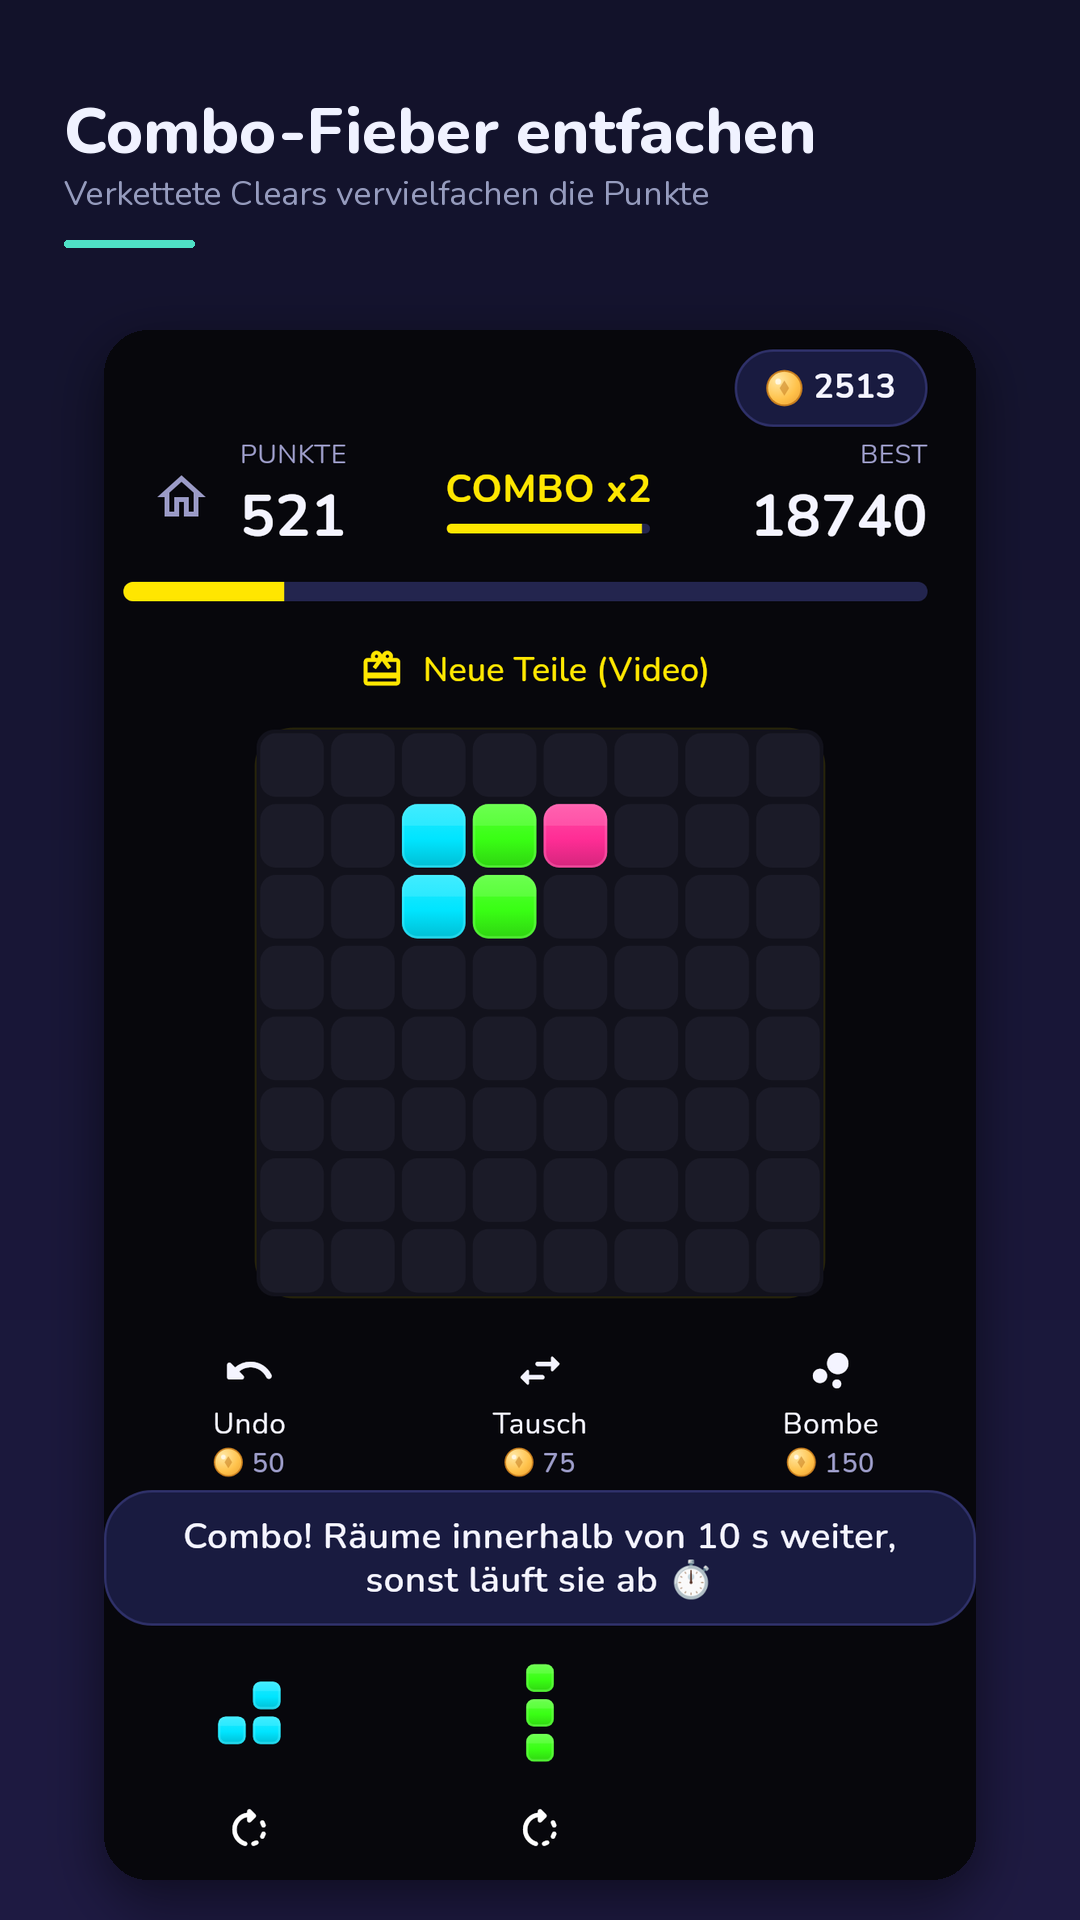
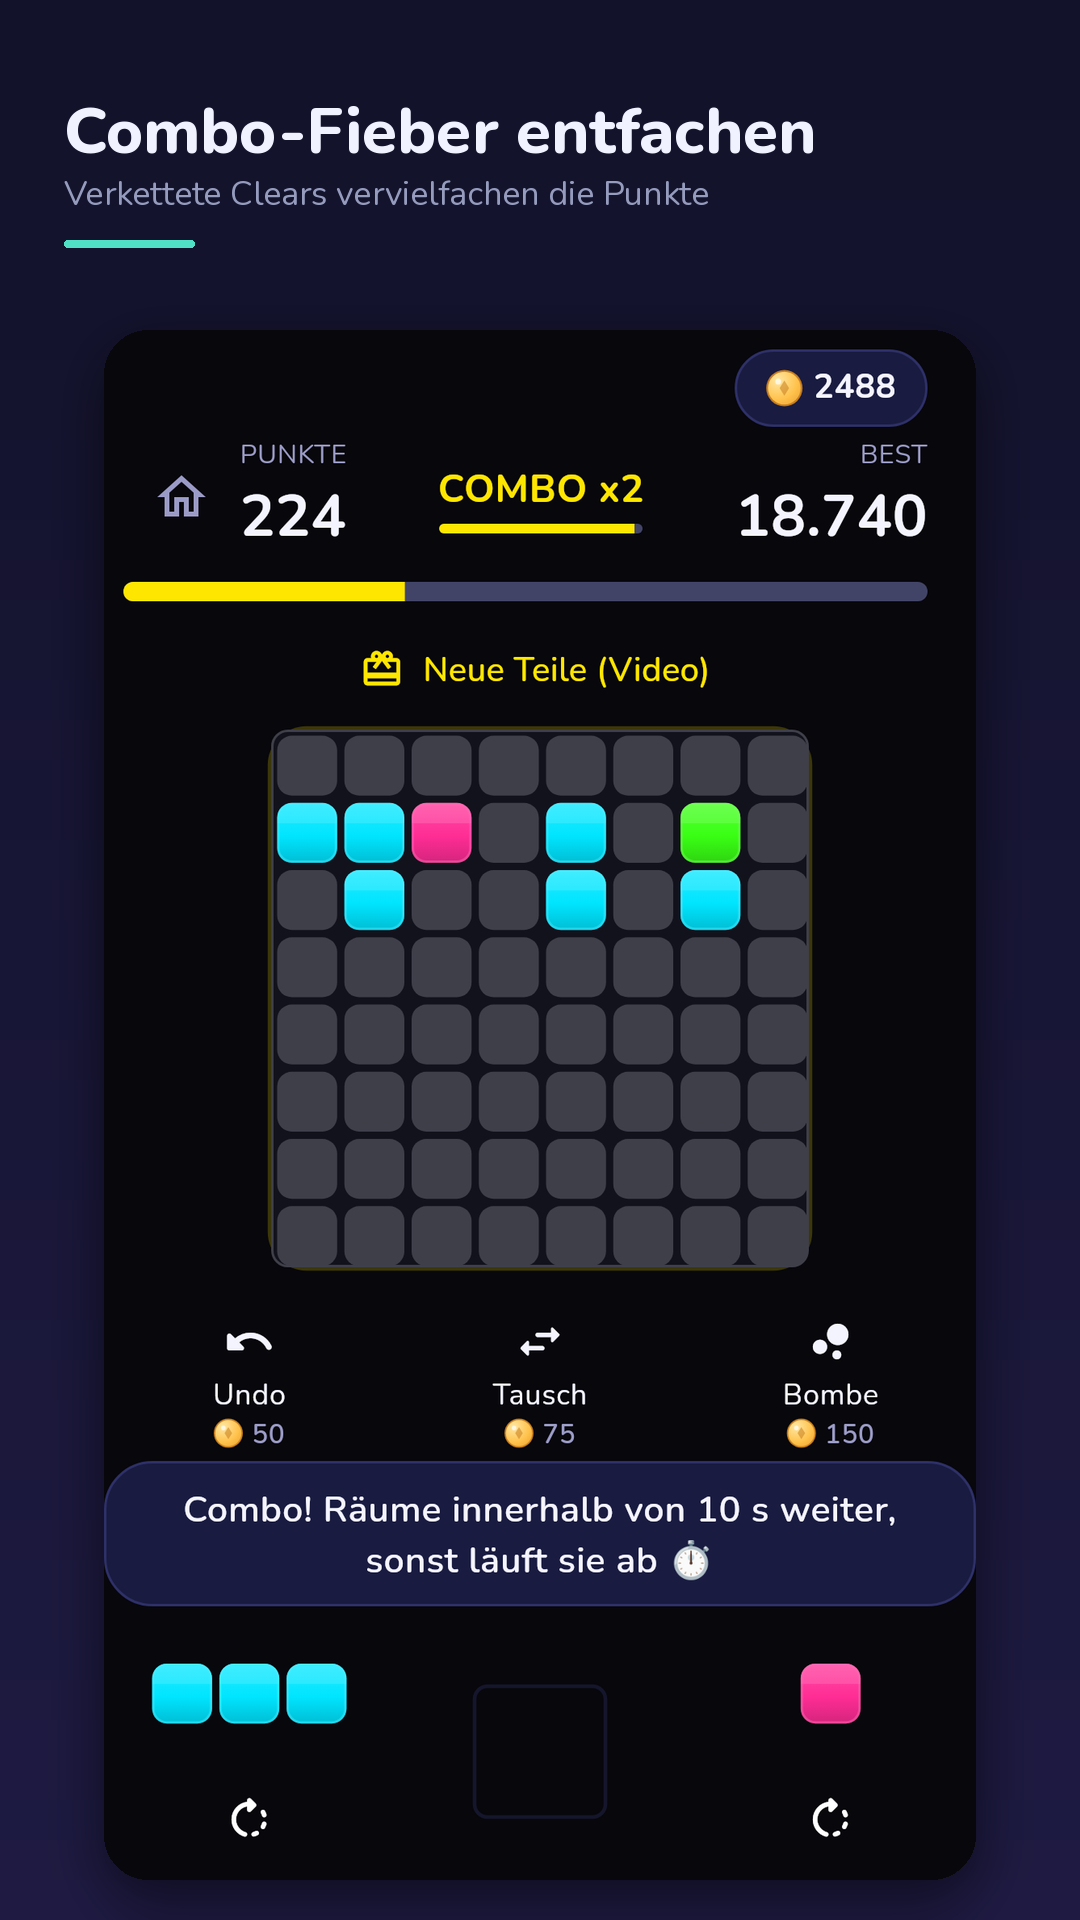
Format numbers by locale, and stop the screenshots at a live board
format.dart grouped thousands with a hardcoded '.', which was correct while
the app was German-only — its own doc comment said to swap it for
NumberFormat once the app was localized. It is now, so an English player was
reading "18.740" as a decimal. Grouping follows the rendered locale.

The screenshot generator filled the board by move count, which #43's balance
changes turned into a run that ended: the gameplay capture was a Game Over
overlay under a caption about clearing rows. It now fills to a share of the
board instead, and asserts the run is still live before capturing, so this
fails the generator rather than reaching the store.

diff --git a/test/ui/format_test.dart b/test/ui/format_test.dart
@@ -2,24 +2,43 @@ import 'package:flutter_test/flutter_test.dart';
 import 'package:gridpop/ui/format.dart';
 
 void main() {
-  test('groups thousands the German way', () {
-    expect(formatCount(0), '0');
-    expect(formatCount(7), '7');
-    expect(formatCount(999), '999');
-    expect(formatCount(1000), '1.000');
-    expect(formatCount(12840), '12.840');
-    expect(formatCount(100000), '100.000');
-    expect(formatCount(1234567), '1.234.567');
+  group('English (the source language, and the fallback)', () {
+    test('groups thousands with a comma', () {
+      expect(formatCount(0, locale: 'en'), '0');
+      expect(formatCount(7, locale: 'en'), '7');
+      expect(formatCount(999, locale: 'en'), '999');
+      expect(formatCount(1000, locale: 'en'), '1,000');
+      expect(formatCount(12840, locale: 'en'), '12,840');
+      expect(formatCount(100000, locale: 'en'), '100,000');
+      expect(formatCount(1234567, locale: 'en'), '1,234,567');
+    });
+
+    test('handles the boundaries a score can actually reach', () {
+      // Measured over 60,000 simulated runs: p95 ~9,600, max ~29,000.
+      expect(formatCount(9602, locale: 'en'), '9,602');
+      expect(formatCount(28894, locale: 'en'), '28,894');
+    });
+
+    test('a negative value keeps its sign', () {
+      // Not reachable from a score today, but the helper is general.
+      expect(formatCount(-4200, locale: 'en'), '-4,200');
+    });
   });
 
-  test('handles the boundaries a score can actually reach', () {
-    // Measured over 60.000 simulated runs: p95 ~9.600, max ~29.000.
-    expect(formatCount(9602), '9.602');
-    expect(formatCount(28894), '28.894');
-  });
+  group('German', () {
+    test('groups thousands with a period', () {
+      // The separator has to follow the language: a German player reading
+      // "18,740" would see a decimal, not a score.
+      expect(formatCount(1000, locale: 'de'), '1.000');
+      expect(formatCount(12840, locale: 'de'), '12.840');
+      expect(formatCount(1234567, locale: 'de'), '1.234.567');
+      expect(formatCount(-4200, locale: 'de'), '-4.200');
+    });
 
-  test('a negative value keeps its sign', () {
-    // Not reachable from a score today, but the helper is general.
-    expect(formatCount(-4200), '-4.200');
+    test('small numbers are identical in both languages', () {
+      for (final value in [0, 7, 42, 999]) {
+        expect(formatCount(value, locale: 'de'), formatCount(value, locale: 'en'));
+      }
+    });
   });
 }

diff --git a/tool/generate_screenshots.dart b/tool/generate_screenshots.dart
@@ -231,11 +231,25 @@ bool _playOneMove(GameController c, _Prefer prefer) {
 
 enum _Prefer { any, fill, clear }
 
-/// Builds up a busy-looking board: fill without clearing for a while, so the
-/// grid reads as "a real run in progress" instead of three lonely blocks.
-void _buildBusyBoard(GameController c, {int moves = 14}) {
-  for (var i = 0; i < moves; i++) {
+/// Builds up a busy-looking board: fill without clearing until roughly
+/// [targetFill] of the grid is occupied, so it reads as "a real run in
+/// progress" instead of three lonely blocks.
+///
+/// Driven by how full the board actually is rather than a move count. A fixed
+/// count is hostage to generator and balance tuning — it once produced a good
+/// board and later ran the run all the way to Game Over, which is not what the
+/// store should show.
+void _buildBusyBoard(GameController c, {double targetFill = 0.45}) {
+  const cells = Board.size * Board.size;
+  for (var i = 0; i < 200; i++) {
     if (c.state.gameOver) return;
+    var filled = 0;
+    for (var r = 0; r < Board.size; r++) {
+      for (var col = 0; col < Board.size; col++) {
+        if (c.state.board.filledAt(r, col)) filled++;
+      }
+    }
+    if (filled / cells >= targetFill) return;
     if (_playOneMove(c, _Prefer.fill)) continue;
     if (!_playOneMove(c, _Prefer.any)) return;
   }
@@ -280,7 +294,7 @@ final _shots = <_Shot>[
   _Shot(
     name: '1-gameplay',
     screen: const GameScreen(),
-    prepare: (c) => _buildBusyBoard(c, moves: 16),
+    prepare: (c) => _buildBusyBoard(c),
   ),
   // Combo/fever moment, in Neon so it reads as a different mood.
   _Shot(
@@ -296,7 +310,7 @@ final _shots = <_Shot>[
     theme: 'ocean',
     prepare: (c) {
       c.startDaily();
-      _buildBusyBoard(c, moves: 10);
+      _buildBusyBoard(c, targetFill: 0.32);
     },
   ),
   // Puzzle mode (Wood).
@@ -334,6 +348,14 @@ void main() {
         addTearDown(container.dispose);
 
         shot.prepare?.call(container.read(gameControllerProvider.notifier));
+
+        // A Game Over overlay in a store screenshot sells the opposite of
+        // what the caption promises. Fail loudly rather than ship one.
+        expect(
+          container.read(gameControllerProvider).gameOver,
+          isFalse,
+          reason: '${shot.name} ran to Game Over while being set up',
+        );
 
         await _capture(
           tester,

diff --git a/lib/ui/screens/game_screen.dart b/lib/ui/screens/game_screen.dart
@@ -97,7 +97,7 @@ class _GameScreenState extends ConsumerState<GameScreen> {
           duration: const Duration(seconds: 2),
           content: Text(
             missing > 0
-                ? L10n.of(context).gameBombNeedsCoins(formatCount(missing))
+                ? L10n.of(context).gameBombNeedsCoins(L10n.of(context).count(missing))
                 : L10n.of(context).gameBombNotHere,
           ),
         ),
@@ -400,7 +400,9 @@ class _BoosterBar extends ConsumerWidget {
       final ok = await action;
       if (ok || !context.mounted) return;
       final message = snap.coins < cost
-          ? L10n.of(context).gameNeedsCoins(formatCount(cost - snap.coins))
+          ? L10n.of(
+            context,
+          ).gameNeedsCoins(L10n.of(context).count(cost - snap.coins))
           : L10n.of(context).gameNotRightNow;
       ScaffoldMessenger.of(context).showSnackBar(
         SnackBar(
@@ -615,7 +617,7 @@ class _Header extends StatelessWidget {
                     tooltip: L10n.of(context).commonHome,
                     onPressed: () => Navigator.of(context).maybePop(),
                   ),
-                  _stat(L10n.of(context).commonScore, formatCount(score)),
+                  _stat(L10n.of(context).commonScore, L10n.of(context).count(score)),
                 ],
               ),
               if (combo > 1)
@@ -624,7 +626,11 @@ class _Header extends StatelessWidget {
                   color: feverColor,
                   endsAt: comboEndsAt,
                 ),
-              _stat(L10n.of(context).commonBest, formatCount(highscore), alignEnd: true),
+              _stat(
+                L10n.of(context).commonBest,
+                L10n.of(context).count(highscore),
+                alignEnd: true,
+              ),
             ],
           ),
           const SizedBox(height: 10),

diff --git a/lib/ui/format.dart b/lib/ui/format.dart
@@ -1,23 +1,24 @@
 /// User-facing number formatting.
-///
-/// Deliberately a small helper rather than `intl`: the app has no other use
-/// for it yet, and adding a localization dependency days before a playtest to
-/// group digits is not a trade worth making. Swap this for
-/// `NumberFormat.decimalPattern` when the app is actually localized.
 library;
 
-/// Groups [value] with German thousands separators: 12840 -> "12.840".
+import 'package:intl/intl.dart';
+
+import '../l10n/app_localizations.dart';
+
+/// Groups [value] for the given [locale]: 18740 becomes "18,740" in English
+/// and "18.740" in German.
 ///
-/// Scores reach five figures (measured p95 ≈ 9.600, max ≈ 29.000), and the
+/// Scores reach five figures (measured p95 ≈ 9,600, max ≈ 29,000), and the
 /// home screen renders the best score at 52 pt — ungrouped it is both hard to
 /// read at a glance and wide enough to crowd the line.
-String formatCount(int value) {
-  final negative = value < 0;
-  final digits = value.abs().toString();
-  final buffer = StringBuffer();
-  for (var i = 0; i < digits.length; i++) {
-    if (i > 0 && (digits.length - i) % 3 == 0) buffer.write('.');
-    buffer.write(digits[i]);
-  }
-  return negative ? '-$buffer' : buffer.toString();
+///
+/// The separator has to follow the language, not the code: a German player
+/// reading "18,740" sees a decimal, not a score. This used to be a hand-rolled
+/// helper with a hardcoded '.', which was fine while the app was German-only.
+String formatCount(int value, {String? locale}) =>
+    NumberFormat.decimalPattern(locale).format(value);
+
+extension CountFormatting on L10n {
+  /// [formatCount] in the locale currently being rendered.
+  String count(int value) => formatCount(value, locale: localeName);
 }

diff --git a/lib/ui/screens/home_screen.dart b/lib/ui/screens/home_screen.dart
@@ -456,7 +456,7 @@ L10n.of(dialogContext).nameChangeExplainer,
                             ),
                             const SizedBox(height: 2),
                             Text(
-                              formatCount(snap.highscore),
+                              l10n.count(snap.highscore),
                               style: const TextStyle(
                                 color: GridColors.placed,
                                 fontSize: 52,
